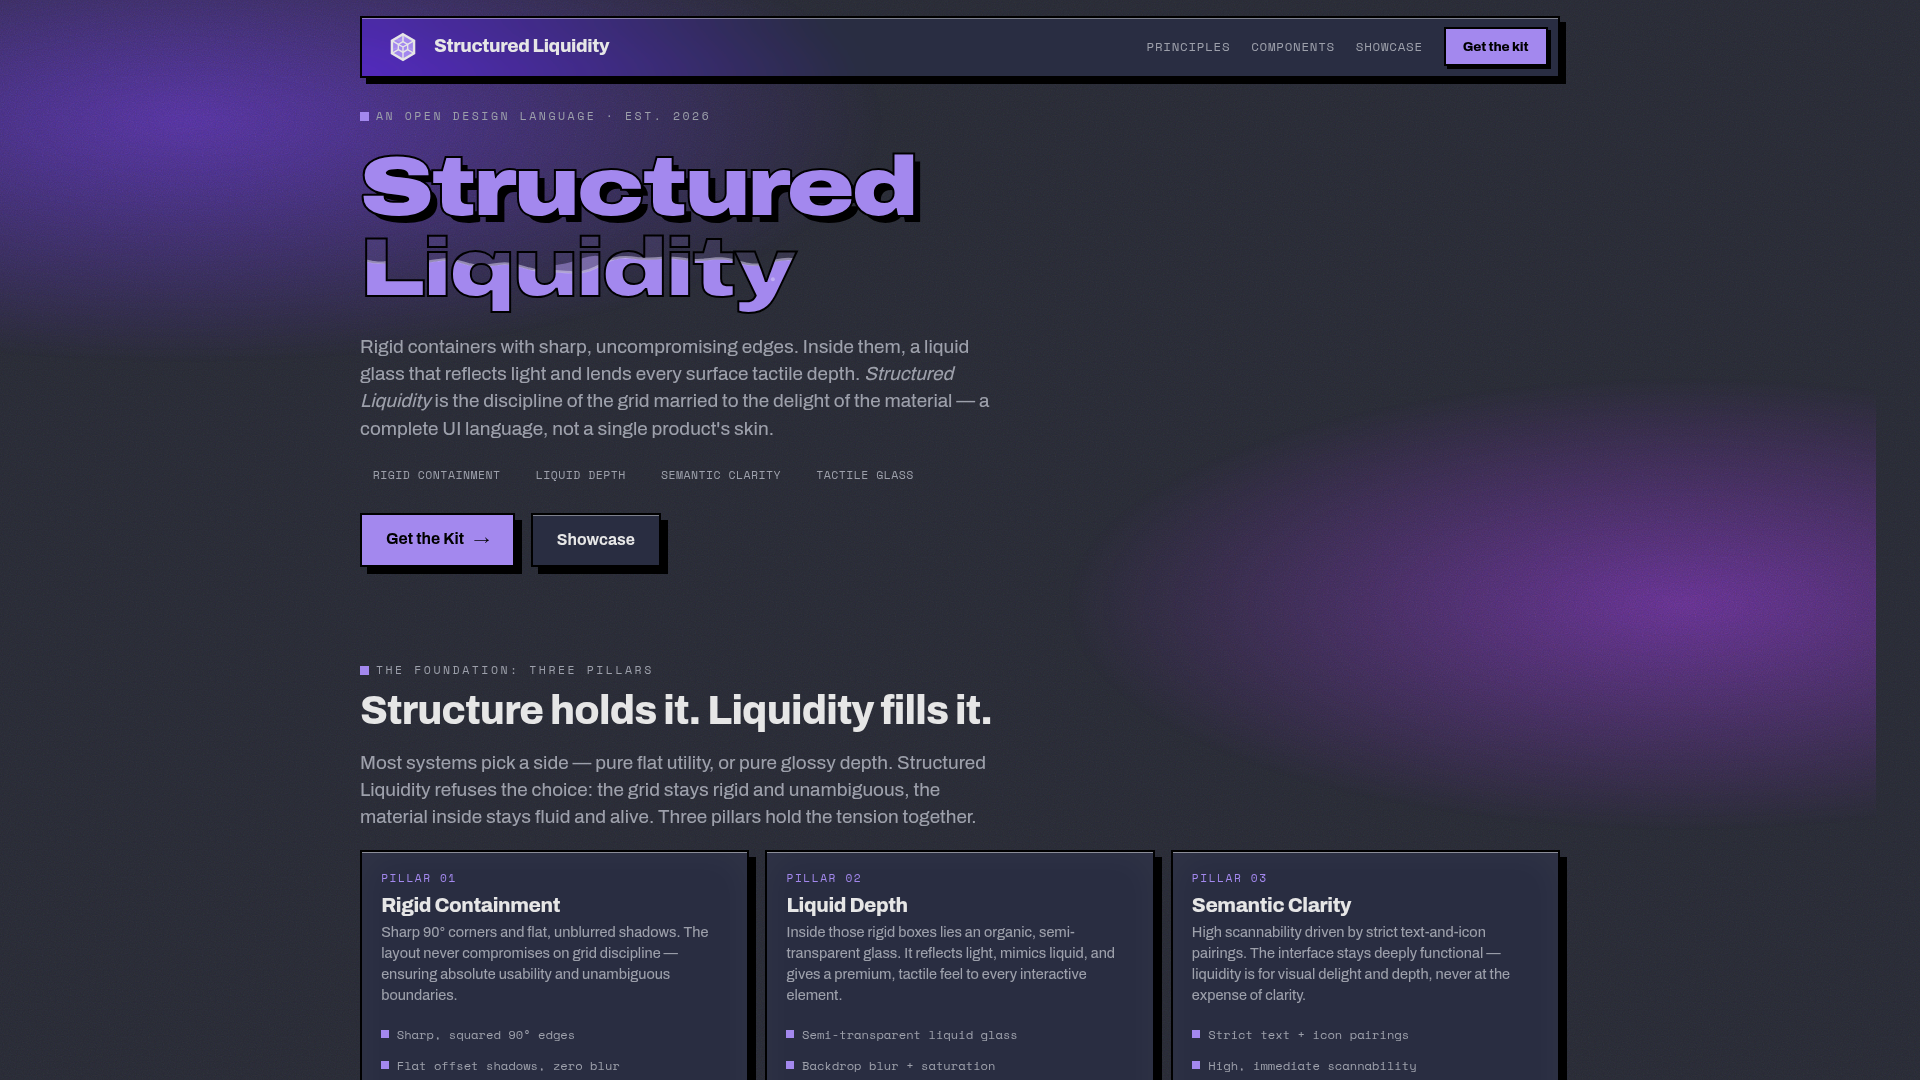
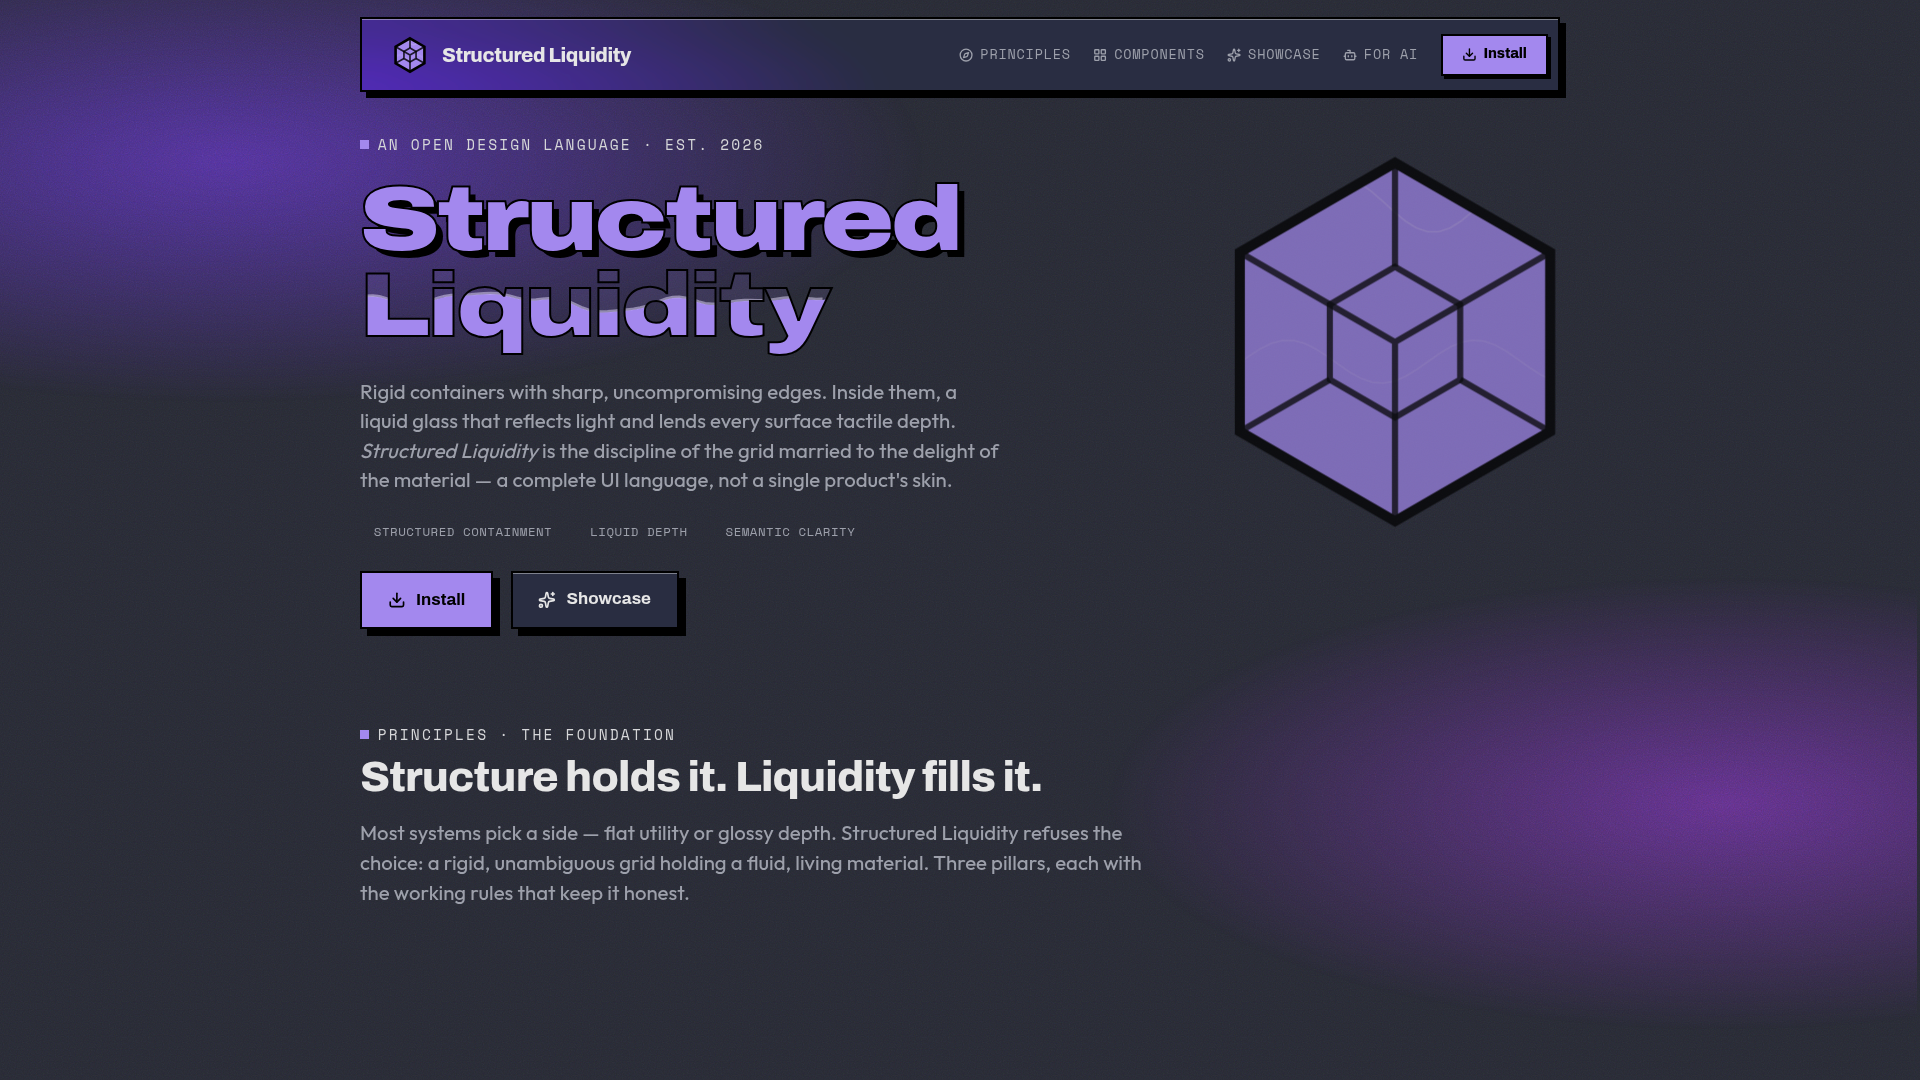
Make the navigation bar a floating glass island
Update the header component to style the navigation bar as a floating glass island with a full black border and offset shadow, matching structured.glass.

Replit-Commit-Author: Agent
Replit-Commit-Session-Id: a550adeb-e6b1-4e7f-9c2d-b69949a1ef19
Replit-Commit-Checkpoint-Type: full_checkpoint
Replit-Commit-Event-Id: 297c114c-516c-41bb-b278-d6ab75587251
Replit-Commit-Screenshot-Url: https://storage.googleapis.com/screenshot-production-us-central1/d2193f08-b592-45ce-b730-8dc2c7ef133c/a550adeb-e6b1-4e7f-9c2d-b69949a1ef19/jVYT4ye

Changed region(s): [[0.1875, 0.1528, 1.0, 1.0], [0.1875, 0.0, 0.8125, 0.6111], [0.6562, 0.9778, 0.7188, 1.0]]

diff --git a/app/components/navigation.tsx b/app/components/navigation.tsx
@@ -67,12 +67,12 @@ const Navigation = () => {
   return (
     <>
       <motion.header
-        className="fixed top-0 left-0 right-0 w-full z-50 bg-[#2a313a] border-b-4 border-black shadow-[0_4px_0px_0px_rgba(0,0,0,1)]"
+        className="fixed top-0 left-0 right-0 z-50 px-4 pt-4"
         initial={{ y: 0 }}
         animate={{ y: 0 }}
       >
-        <div className="w-full max-w-4xl mx-auto px-4 sm:px-6 lg:px-8">
-          <div className="flex items-center justify-between py-3">
+        <div className="max-w-4xl mx-auto bg-[#2a313a] border-2 border-black shadow-[4px_4px_0px_0px_rgba(0,0,0,1)]">
+          <div className="flex items-center justify-between py-3 px-4 sm:px-6">
             <Link href="/" onClick={closeMobileMenu} className="shrink-0 mr-4">
               <div className="flex items-center space-x-2">
                 <Image 